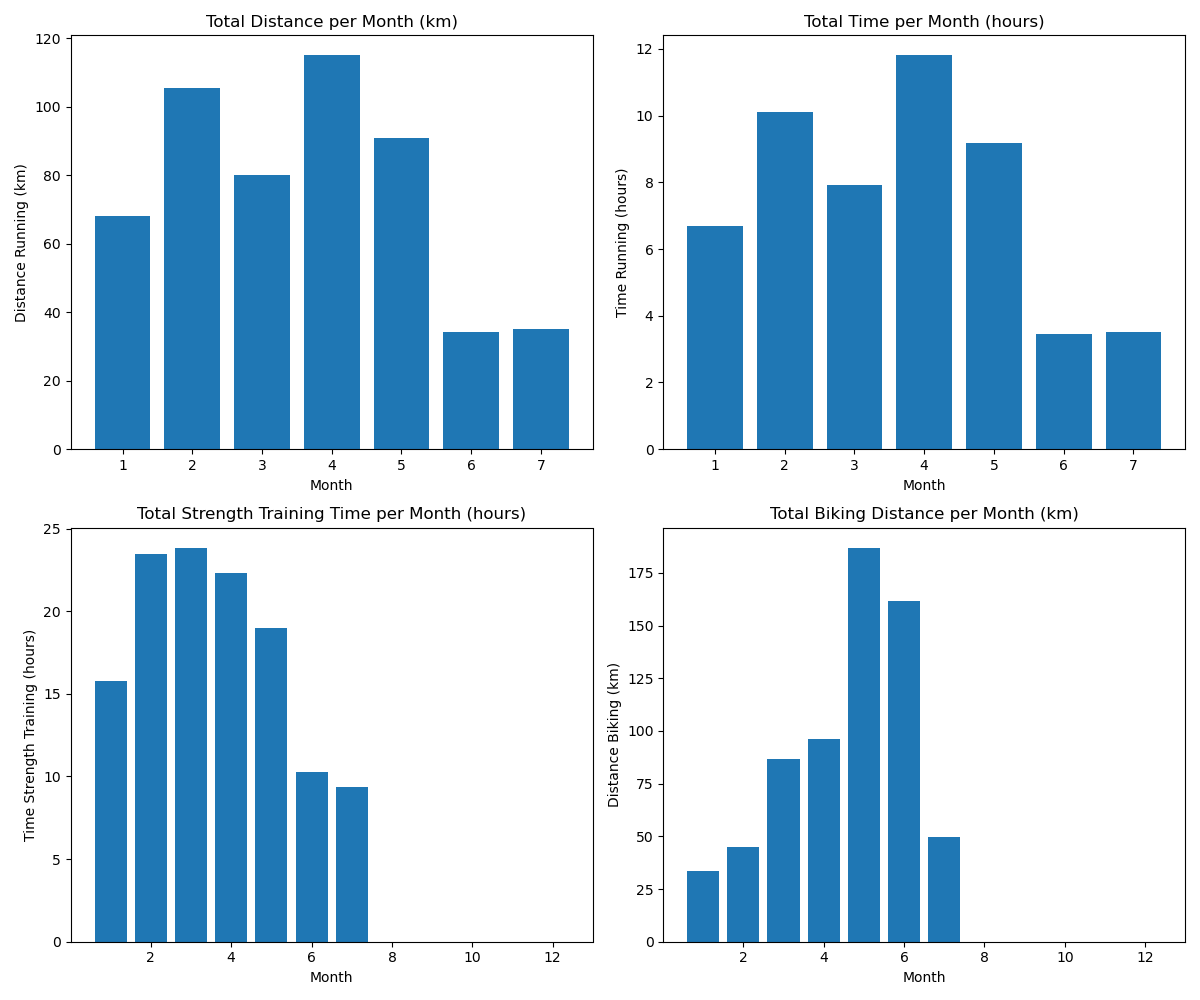
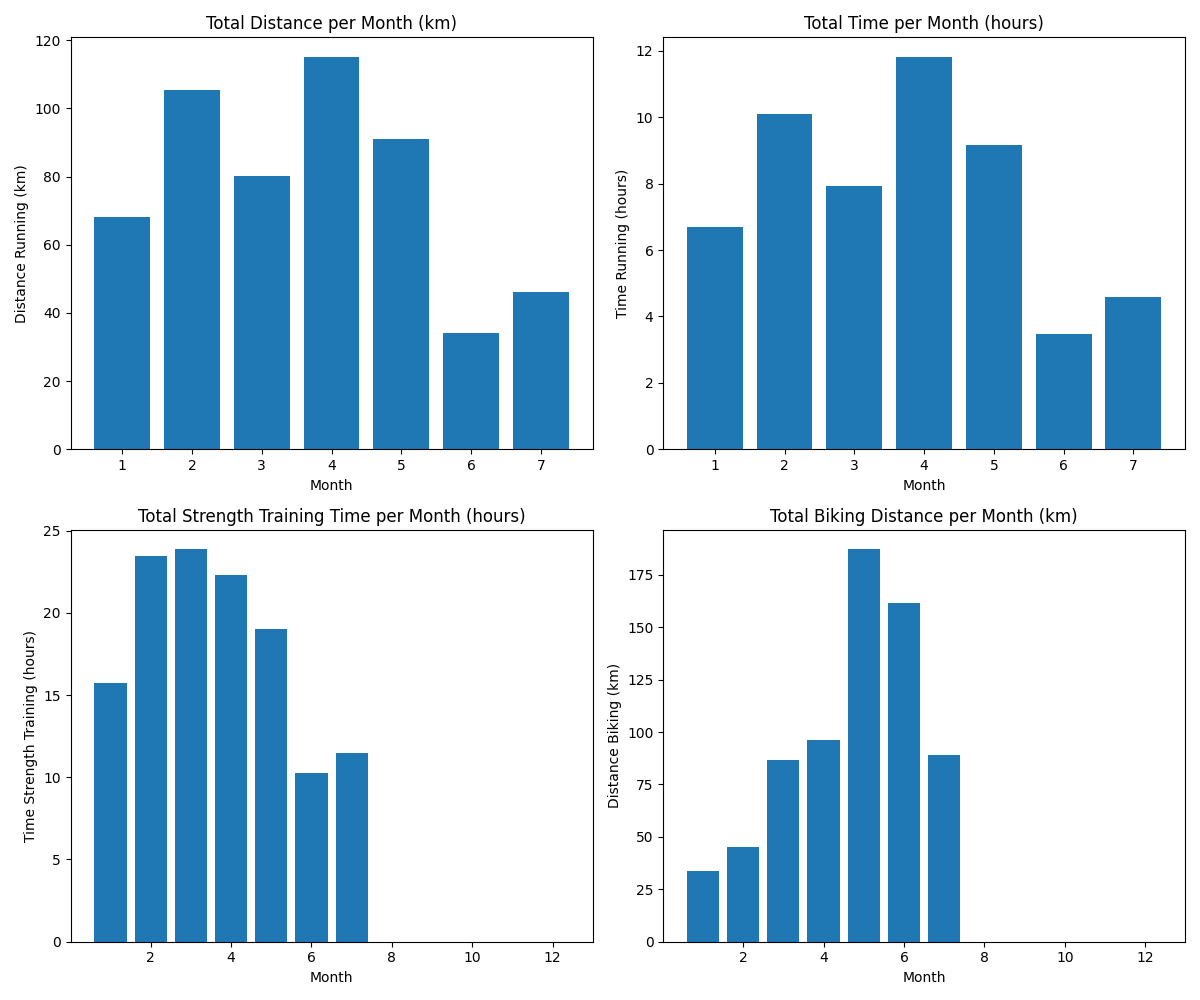
sport update 24.7

diff --git a/Sport/Sport_2026_report.md b/Sport/Sport_2026_report.md
@@ -3,24 +3,24 @@
 ## Sport Counts
 | type   |   count |
 |:-------|--------:|
-| F      |     141 |
+| F      |     144 |
 | S      |      13 |
 | K      |       5 |
+| B      |       5 |
 | L      |       4 |
-| B      |       4 |
-| Total  |     167 |
+| Total  |     171 |
 
 ## Summary
-- **Total distance run on treadmill:** 504.51 km
+- **Total distance run on treadmill:** 515.51 km
 - **Total distance run outside:** 24.23 km
-- **Total distance cycled:** 659.31 km
+- **Total distance cycled:** 698.81 km
 - **Total distance swimming:** 33.00 km
-- **Total distance skating:** 61.81 km
-- **Total time spent on strength training:** 123h 56min
+- **Total distance skating:** 75.31 km
+- **Total time spent on strength training:** 126h 04min
 
 ## Average Speeds
-- **Treadmill running:** 9.96 km/h
+- **Treadmill running:** 9.97 km/h
 - **Outside running:** 10.58 km/h
-- **Cycling:** 21.40 km/h
+- **Cycling:** 21.35 km/h
 - **Swimming:** 2.58 km/h
-- **Inline skating:** 9.63 km/h
+- **Inline skating:** 9.51 km/h
